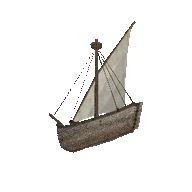
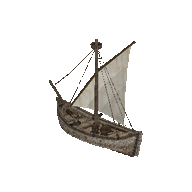
DHO 배 찍기가 배를 밑에서 올려다본 그림을 내던 것을 고치고 바사 그림을 다시 굽는다(제보) — 화면 높이 · 깊이 식의 sin 항 부호가 거꾸로라 대각선 방향(북서 · 남서 · 남동 · 북동)이 위아래로 뒤집혀 남서로 갈 때 북서 그림이 섰다
Claude-Session: https://claude.ai/code/session_01BJuwbkemqPnGxnYtLkf1qM

Changed region(s): [[0.25, 0.0938, 0.75, 0.8125], [0.375, 0.3438, 0.4062, 0.375], [0.3438, 0.375, 0.375, 0.4062]]

diff --git a/tools/dho_ship_render.py b/tools/dho_ship_render.py
@@ -94,8 +94,10 @@ def render(parts, yaw_deg, elev_deg, width, height, scale, center_y):
     def proj(p):
         x = p[:, 0] * np.cos(a) + p[:, 2] * np.sin(a)
         z = -p[:, 0] * np.sin(a) + p[:, 2] * np.cos(a)
-        y = p[:, 1] * np.cos(e) - z * np.sin(e)
-        d = -(p[:, 1] * np.sin(e) + z * np.cos(e))
+        # 내려다본다 — 먼 쪽(z 가 큰 쪽)이 화면 위로 가고, 높은 데 · 가까운 데가 앞이다.
+        # 예전에는 sin 항 부호가 거꾸로라 밑에서 올려다본 그림이 나왔고, 대각선 방향이 위아래로 뒤집혔다.
+        y = p[:, 1] * np.cos(e) + z * np.sin(e)
+        d = p[:, 1] * np.sin(e) - z * np.cos(e)
         return np.stack([x, y, d], 1)
 
     img = np.zeros((height, width, 4), np.uint8)
